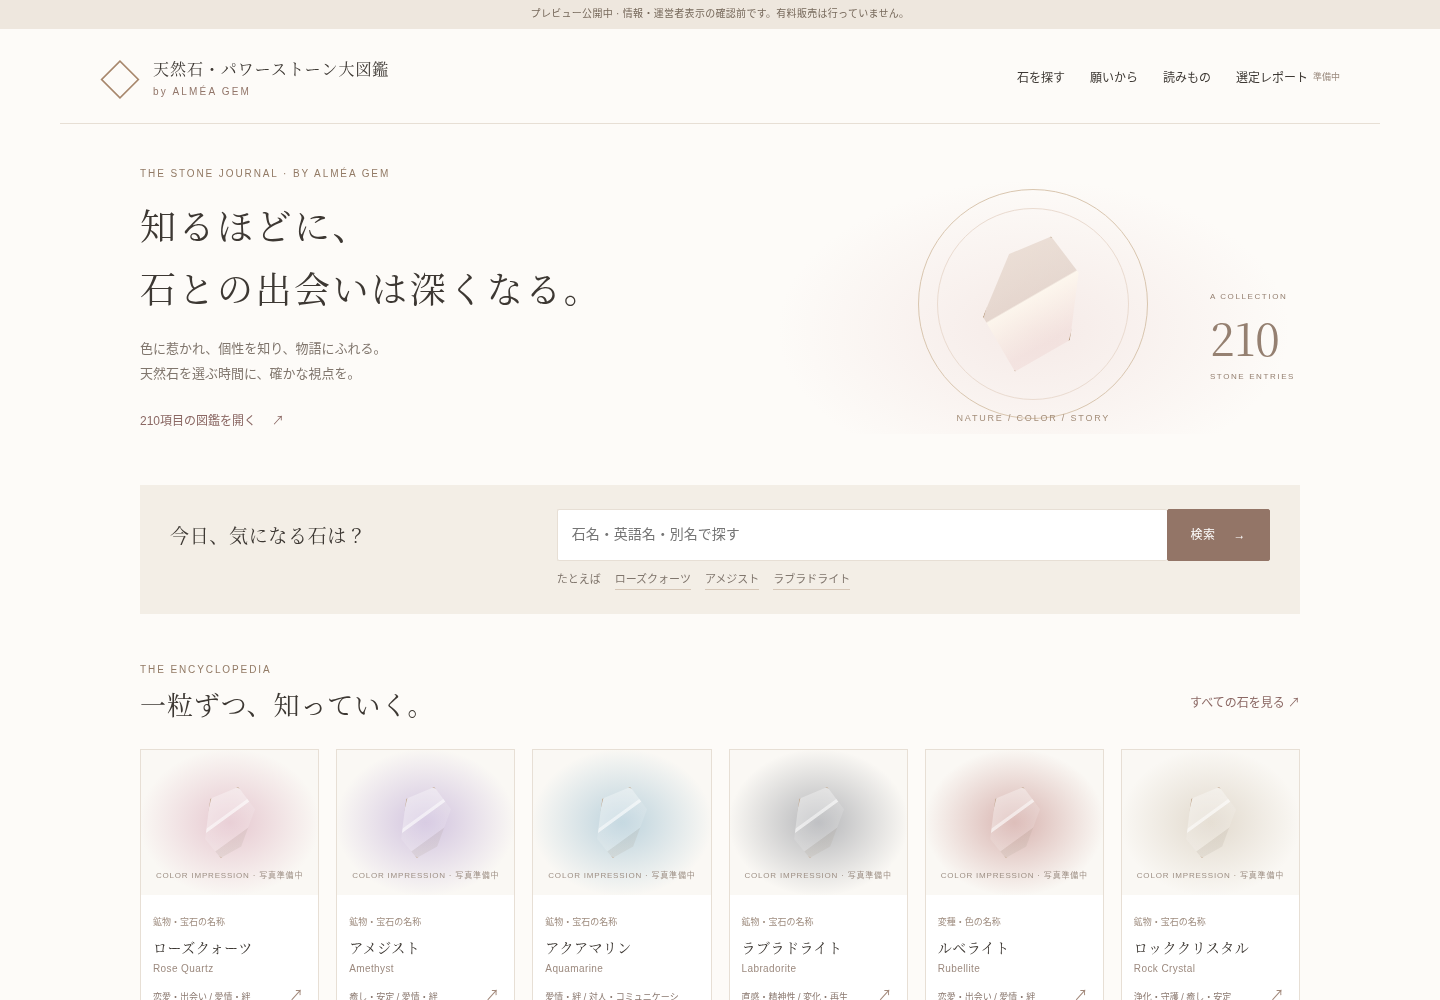
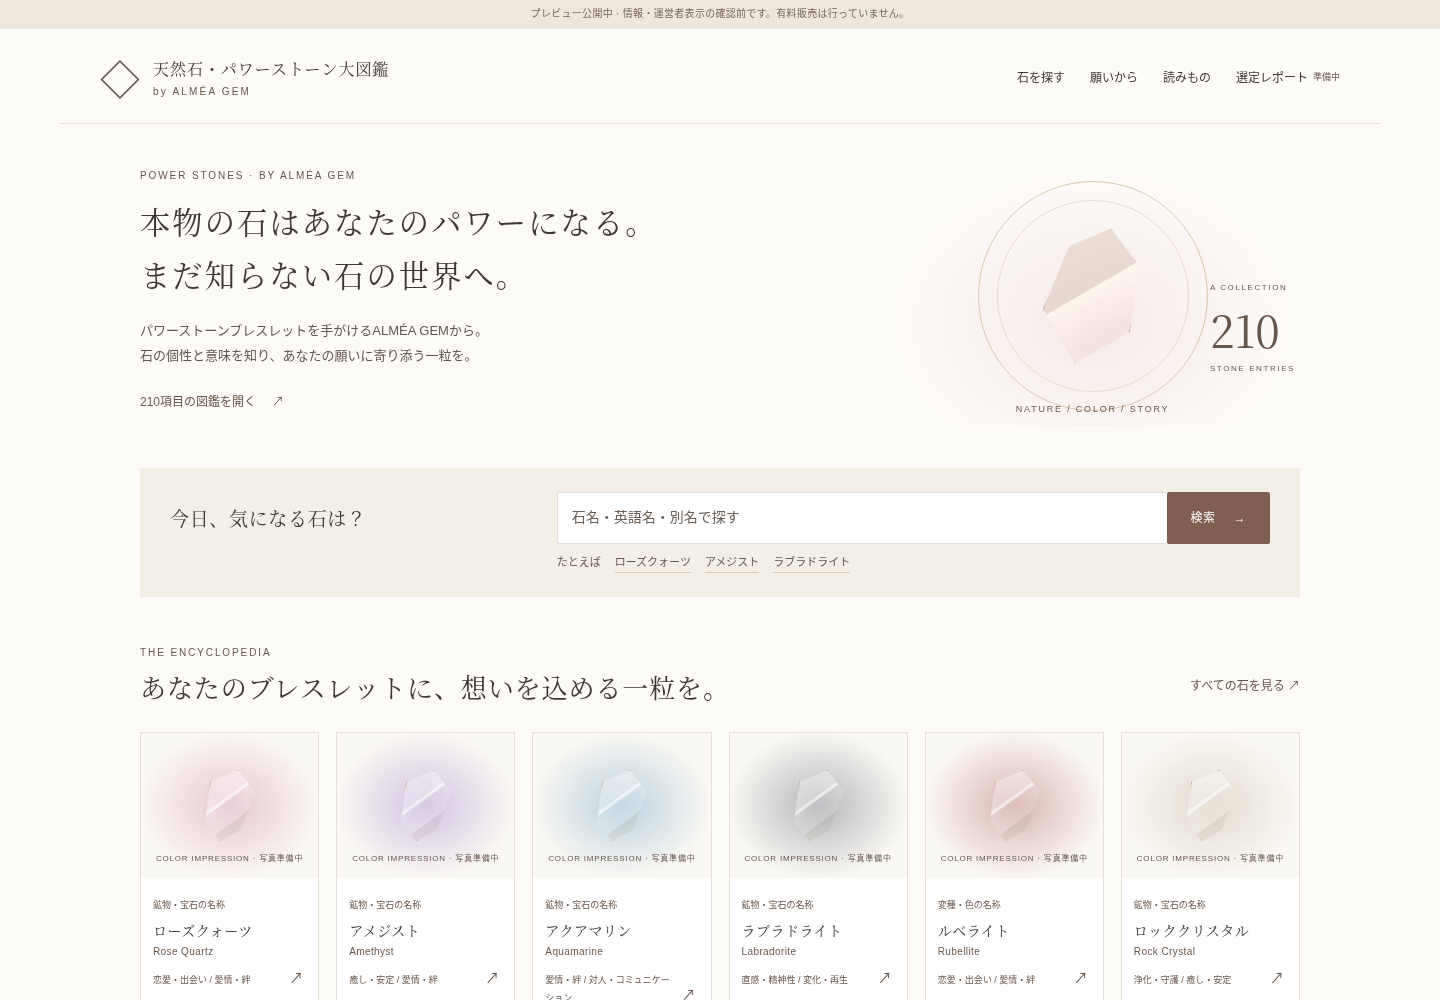
style: align brand copy with bracelets and improve text readability

diff --git a/src/styles.css b/src/styles.css
@@ -59,9 +59,9 @@
   :root {
     --paper: #fdfbf8;
     --ink: #3d3833;
-    --muted: #80766d;
+    --muted: #62574f;
     --line: #e7dfd5;
-    --rose: #a8787e;
+    --rose: #80565e;
     --beige: #f3eee6;
     --serif: 'Noto Serif CJK JP', 'Yu Mincho', 'Hiragino Mincho ProN', serif;
     --sans:
@@ -143,7 +143,7 @@
     letter-spacing: 0.19em;
     line-height: 1.5;
     font-weight: 500;
-    color: #927a65;
+    color: #67564b;
     margin-bottom: 12px;
   }
   .quiet-note,
@@ -180,11 +180,11 @@
     gap: 18px;
     padding: 13px 23px;
     min-height: 46px;
-    background: #937567;
+    background: #805f53;
     color: #fff;
     font-size: 12px;
     letter-spacing: 0.04em;
-    border: 1px solid #937567;
+    border: 1px solid #805f53;
   }
   .button:hover {
     background: #7c6054;
@@ -204,7 +204,7 @@
     align-items: center;
     min-height: 44px;
     font-size: 12px;
-    color: #8b6864;
+    color: #67564b;
     background: none;
   }
   .sr-only,
@@ -254,7 +254,7 @@
   }
   .brand-symbol {
     font: 40px/1 var(--serif);
-    color: #a7876c;
+    color: #67564b;
   }
   .brand-name {
     display: block;
@@ -266,7 +266,7 @@
     font: 10px/1.6 var(--sans);
     letter-spacing: 0.22em;
     margin-top: 3px;
-    color: #92766a;
+    color: #67564b;
   }
   .site-header nav {
     display: flex;
@@ -282,7 +282,7 @@
   }
   .nav-diagnosis span {
     font-size: 9px;
-    color: #9b8b7f;
+    color: #67564b;
   }
   .site-footer {
     margin-top: 60px;
@@ -320,13 +320,13 @@
   }
   .home-hero {
     display: grid;
-    grid-template-columns: 1.1fr 1fr;
+    grid-template-columns: 1.7fr 1fr;
     align-items: center;
     gap: 40px;
     padding-block: 42px;
   }
   .hero-copy h1 {
-    font-size: 36px;
+    font-size: clamp(25px, 2.1vw, 32px);
     line-height: 1.75;
     letter-spacing: 0.07em;
   }
@@ -379,7 +379,7 @@
     bottom: 8px;
     font-size: 9px;
     letter-spacing: 0.2em;
-    color: #a48e7a;
+    color: #67564b;
   }
   .edition {
     position: absolute;
@@ -387,7 +387,7 @@
     bottom: 50px;
     font: 8px/1.8 var(--sans);
     letter-spacing: 0.2em;
-    color: #958071;
+    color: #67564b;
   }
   .edition strong {
     font: 44px/1.5 var(--serif);
@@ -467,7 +467,7 @@
   }
   .card-eyebrow {
     font-size: 9px;
-    color: #9e8c7f;
+    color: #67564b;
   }
   .card-copy h3 {
     font-size: 17px;
@@ -476,12 +476,12 @@
   .english {
     font: 10px/1.6 var(--sans);
     letter-spacing: 0.04em;
-    color: #9c8a7f;
+    color: #67564b;
     margin-top: 3px;
   }
   .card-theme {
     font-size: 10px;
-    color: #8b7970;
+    color: #67564b;
     margin-top: 12px;
     padding-right: 15px;
   }
@@ -489,7 +489,7 @@
     position: absolute;
     right: 15px;
     bottom: 15px;
-    color: #a2897b;
+    color: #67564b;
   }
   .stone-placeholder {
     position: relative;
@@ -543,7 +543,7 @@
     bottom: 11px;
     font-size: 8px;
     letter-spacing: 0.1em;
-    color: #9e9085;
+    color: #67564b;
   }
   .home-hero + .home-search + .section .stone-placeholder {
     min-height: 145px;
@@ -591,7 +591,7 @@
   .three-views span {
     font-size: 9px;
     letter-spacing: 0.18em;
-    color: #9a806a;
+    color: #67564b;
   }
   .three-views h2 {
     font-size: 20px;
@@ -599,7 +599,7 @@
   }
   .three-views p {
     font-size: 12px;
-    color: #837467;
+    color: #67564b;
   }
   .wish-grid {
     display: grid;
@@ -616,7 +616,7 @@
   }
   .wish-number {
     font: 25px var(--serif);
-    color: #bfa88b;
+    color: #67564b;
   }
   .wish-link h2,
   .wish-link h3 {
@@ -628,7 +628,7 @@
   }
   .wish-link > span:last-child {
     margin-left: auto;
-    color: #a08771;
+    color: #67564b;
   }
   .article-grid {
     display: grid;
@@ -647,11 +647,11 @@
   .article-cover span {
     font-size: 10px;
     letter-spacing: 0.23em;
-    color: #967d63;
+    color: #67564b;
   }
   .article-cover strong {
     font: 66px var(--serif);
-    color: #b7a18b;
+    color: #67564b;
     font-weight: 400;
   }
   .cover-1 {
@@ -687,7 +687,7 @@
   }
   .report-teaser p:not(.eyebrow) {
     font-size: 12px;
-    color: #8c7973;
+    color: #67564b;
   }
   .report-teaser .button {
     flex: none;
@@ -697,7 +697,7 @@
     gap: 9px;
     flex-wrap: wrap;
     font-size: 10px;
-    color: #9c8e82;
+    color: #67564b;
     padding-block: 22px;
   }
   .page-intro {
@@ -786,7 +786,7 @@
   }
   .kind-label {
     font-size: 11px;
-    color: #9b8376;
+    color: #67564b;
     border: 1px solid var(--line);
     padding: 3px 9px;
   }
@@ -797,7 +797,7 @@
   .detail-english {
     font: 14px/1.8 var(--sans);
     letter-spacing: 0.08em;
-    color: #9e887a;
+    color: #67564b;
     margin-bottom: 18px;
   }
   .aliases {
@@ -807,7 +807,7 @@
   }
   .stone-heading > div > p:not(.eyebrow, .detail-english, .aliases) {
     font-size: 13px;
-    color: #7d7166;
+    color: #67564b;
   }
   .stone-placeholder.detail {
     height: 320px;
@@ -829,7 +829,7 @@
     padding: 5px 10px;
     border: 1px solid #e6d8cf;
     background: #faf4ee;
-    color: #9d7c6c;
+    color: #67564b;
   }
   .detail-layout {
     display: grid;
@@ -845,7 +845,7 @@
     flex-direction: column;
     gap: 15px;
     font-size: 12px;
-    color: #978171;
+    color: #67564b;
   }
   .detail-toc .eyebrow {
     margin-bottom: 4px;
@@ -878,7 +878,7 @@
   }
   .fact-list dt {
     font-size: 12px;
-    color: #9a8475;
+    color: #67564b;
   }
   .fact-list dd {
     font-size: 13px;
@@ -886,7 +886,7 @@
     color: #73665b;
   }
   .fact-list .unconfirmed {
-    color: #9d8b7c;
+    color: #67564b;
   }
   .story-section {
     background: linear-gradient(90deg, #f8eeee88, transparent);
@@ -911,7 +911,7 @@
   }
   .updated {
     font-size: 11px !important;
-    color: #9b8d80 !important;
+    color: #67564b !important;
     margin-block: 15px;
   }
   .related-grid {
@@ -923,7 +923,7 @@
     flex-direction: column;
     gap: 15px;
     margin-top: 20px;
-    color: #967466;
+    color: #67564b;
     font-size: 14px;
   }
   .reading {
@@ -936,7 +936,7 @@
   }
   .reading .lead {
     font-size: 16px;
-    color: #9b7e70;
+    color: #67564b;
     padding-bottom: 22px;
     border-bottom: 1px solid var(--line);
   }
@@ -987,7 +987,7 @@
     border: 1px solid var(--line);
     padding: 12px 14px;
     min-height: 55px;
-    color: #87776c;
+    color: #67564b;
     cursor: pointer;
   }
   .choice:has(input:checked) {
@@ -1015,7 +1015,7 @@
     margin-top: 22px;
   }
   .form-error {
-    color: #ac585d;
+    color: #67564b;
     font-size: 13px;
     margin-top: 18px;
   }
@@ -1033,7 +1033,7 @@
   }
   .price {
     font: 40px var(--serif) !important;
-    color: #9e7771;
+    color: #67564b;
   }
   .price span {
     font: 12px var(--sans);
@@ -1565,5 +1565,54 @@
   }
   .home-hero + .home-search + .section .stone-placeholder {
     min-height: 112px;
+  }
+}
+
+@layer base {
+  p {
+    line-break: strict;
+    overflow-wrap: break-word;
+  }
+  input::placeholder,
+  textarea::placeholder {
+    color: #6b6057;
+    opacity: 1;
+  }
+  .prose-lines > span {
+    display: block;
+  }
+  .prose-lines > span + span {
+    margin-top: 0.45em;
+  }
+}
+@layer responsive {
+  @media (max-width: 640px) {
+    .hero-copy h1 {
+      font-size: clamp(19px, 5.2vw, 24px);
+      letter-spacing: 0;
+    }
+    .hero-copy > p:not(.eyebrow) {
+      font-size: 13px;
+    }
+    .quiet-note,
+    .fine-print,
+    .site-footer p,
+    .page-intro > p:not(.eyebrow) {
+      font-size: 13px;
+    }
+    .card-theme,
+    .english {
+      font-size: 11px;
+    }
+    .section-heading h2 {
+      font-size: 20px;
+    }
+  }
+}
+
+@layer components {
+  .hero-line {
+    display: block;
+    text-wrap: balance;
   }
 }

diff --git a/tests/e2e/public.spec.ts b/tests/e2e/public.spec.ts
@@ -9,7 +9,7 @@ test('editorial home has immediate content, separate navigation and no mobile ov
 }) => {
   await page.goto('/');
   await expect(page.getByRole('heading', { level: 1 })).toContainText(
-    '石との出会い',
+    '本物の石はあなたのパワーになる。',
   );
   await expect(page.locator('.stone-card')).toHaveCount(6);
   await expect(
